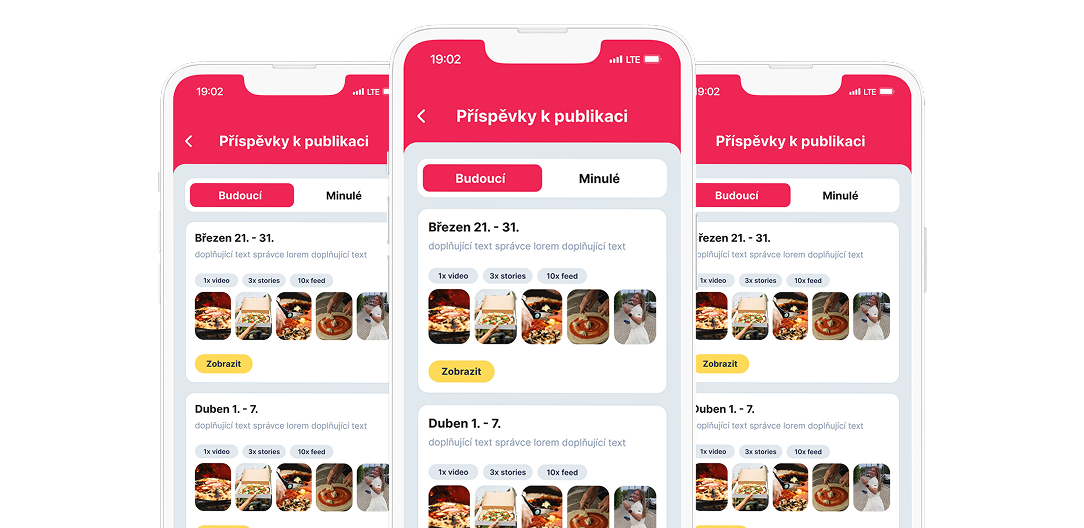
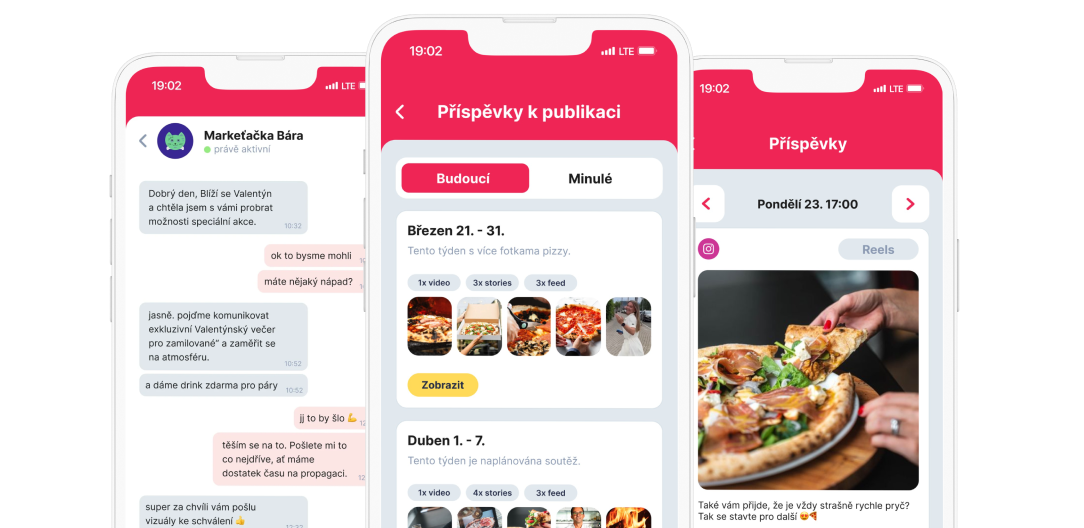
deploy: 3d2e15049d65c09e012b00dc8163d9f048edd696

diff --git a/how-does-it-work.html b/how-does-it-work.html
@@ -417,13 +417,13 @@
     </a>
   </div>
   <img
-    src="./assets/images/phone_01.png"
+    src="./assets/images/phone_single.png"
     alt="Phone"
-    class="h-[600px] mb-10 md:hidden"
+    class="h-150 mb-10 md:hidden"
   />
-  <div class="hidden md:block md:w-1/2 -my-[72px]">
+  <div class="hidden md:block md:w-1/2">
     <img
-      src="./assets/images/phone_02.png"
+      src="./assets/images/phone_plans.png"
       alt="Phone"
       class="h-[512px] mx-auto"
     />
@@ -478,13 +478,13 @@
     </a>
   </div>
   <img
-    src="./assets/images/phone_01.png"
+    src="./assets/images/phone_single.png"
     alt="Phone"
     class="h-150 mb-10 md:hidden"
   />
   <div class="hidden md:block md:w-1/2">
     <img
-      src="./assets/images/phone_02.png"
+      src="./assets/images/phone_chat.png"
       alt="Phone"
       class="h-128 -my-18 mx-auto"
     />
@@ -539,13 +539,13 @@
     </a>
   </div>
   <img
-    src="./assets/images/phone_01.png"
+    src="./assets/images/phone_single.png"
     alt="Phone"
     class="h-150 mb-10 md:hidden"
   />
   <div class="hidden md:block md:w-1/2">
     <img
-      src="./assets/images/phone_02.png"
+      src="./assets/images/phone_management.png"
       alt="Phone"
       class="h-128 -my-18 mx-auto"
     />
@@ -599,13 +599,13 @@
     </a>
   </div>
   <img
-    src="./assets/images/phone_01.png"
+    src="./assets/images/phone_single.png"
     alt="Phone"
     class="h-150 mb-10 md:hidden"
   />
   <div class="hidden md:block md:w-1/2">
     <img
-      src="./assets/images/phone_02.png"
+      src="./assets/images/phone_photos.png"
       alt="Phone"
       class="h-128 -my-18 mx-auto"
     />
